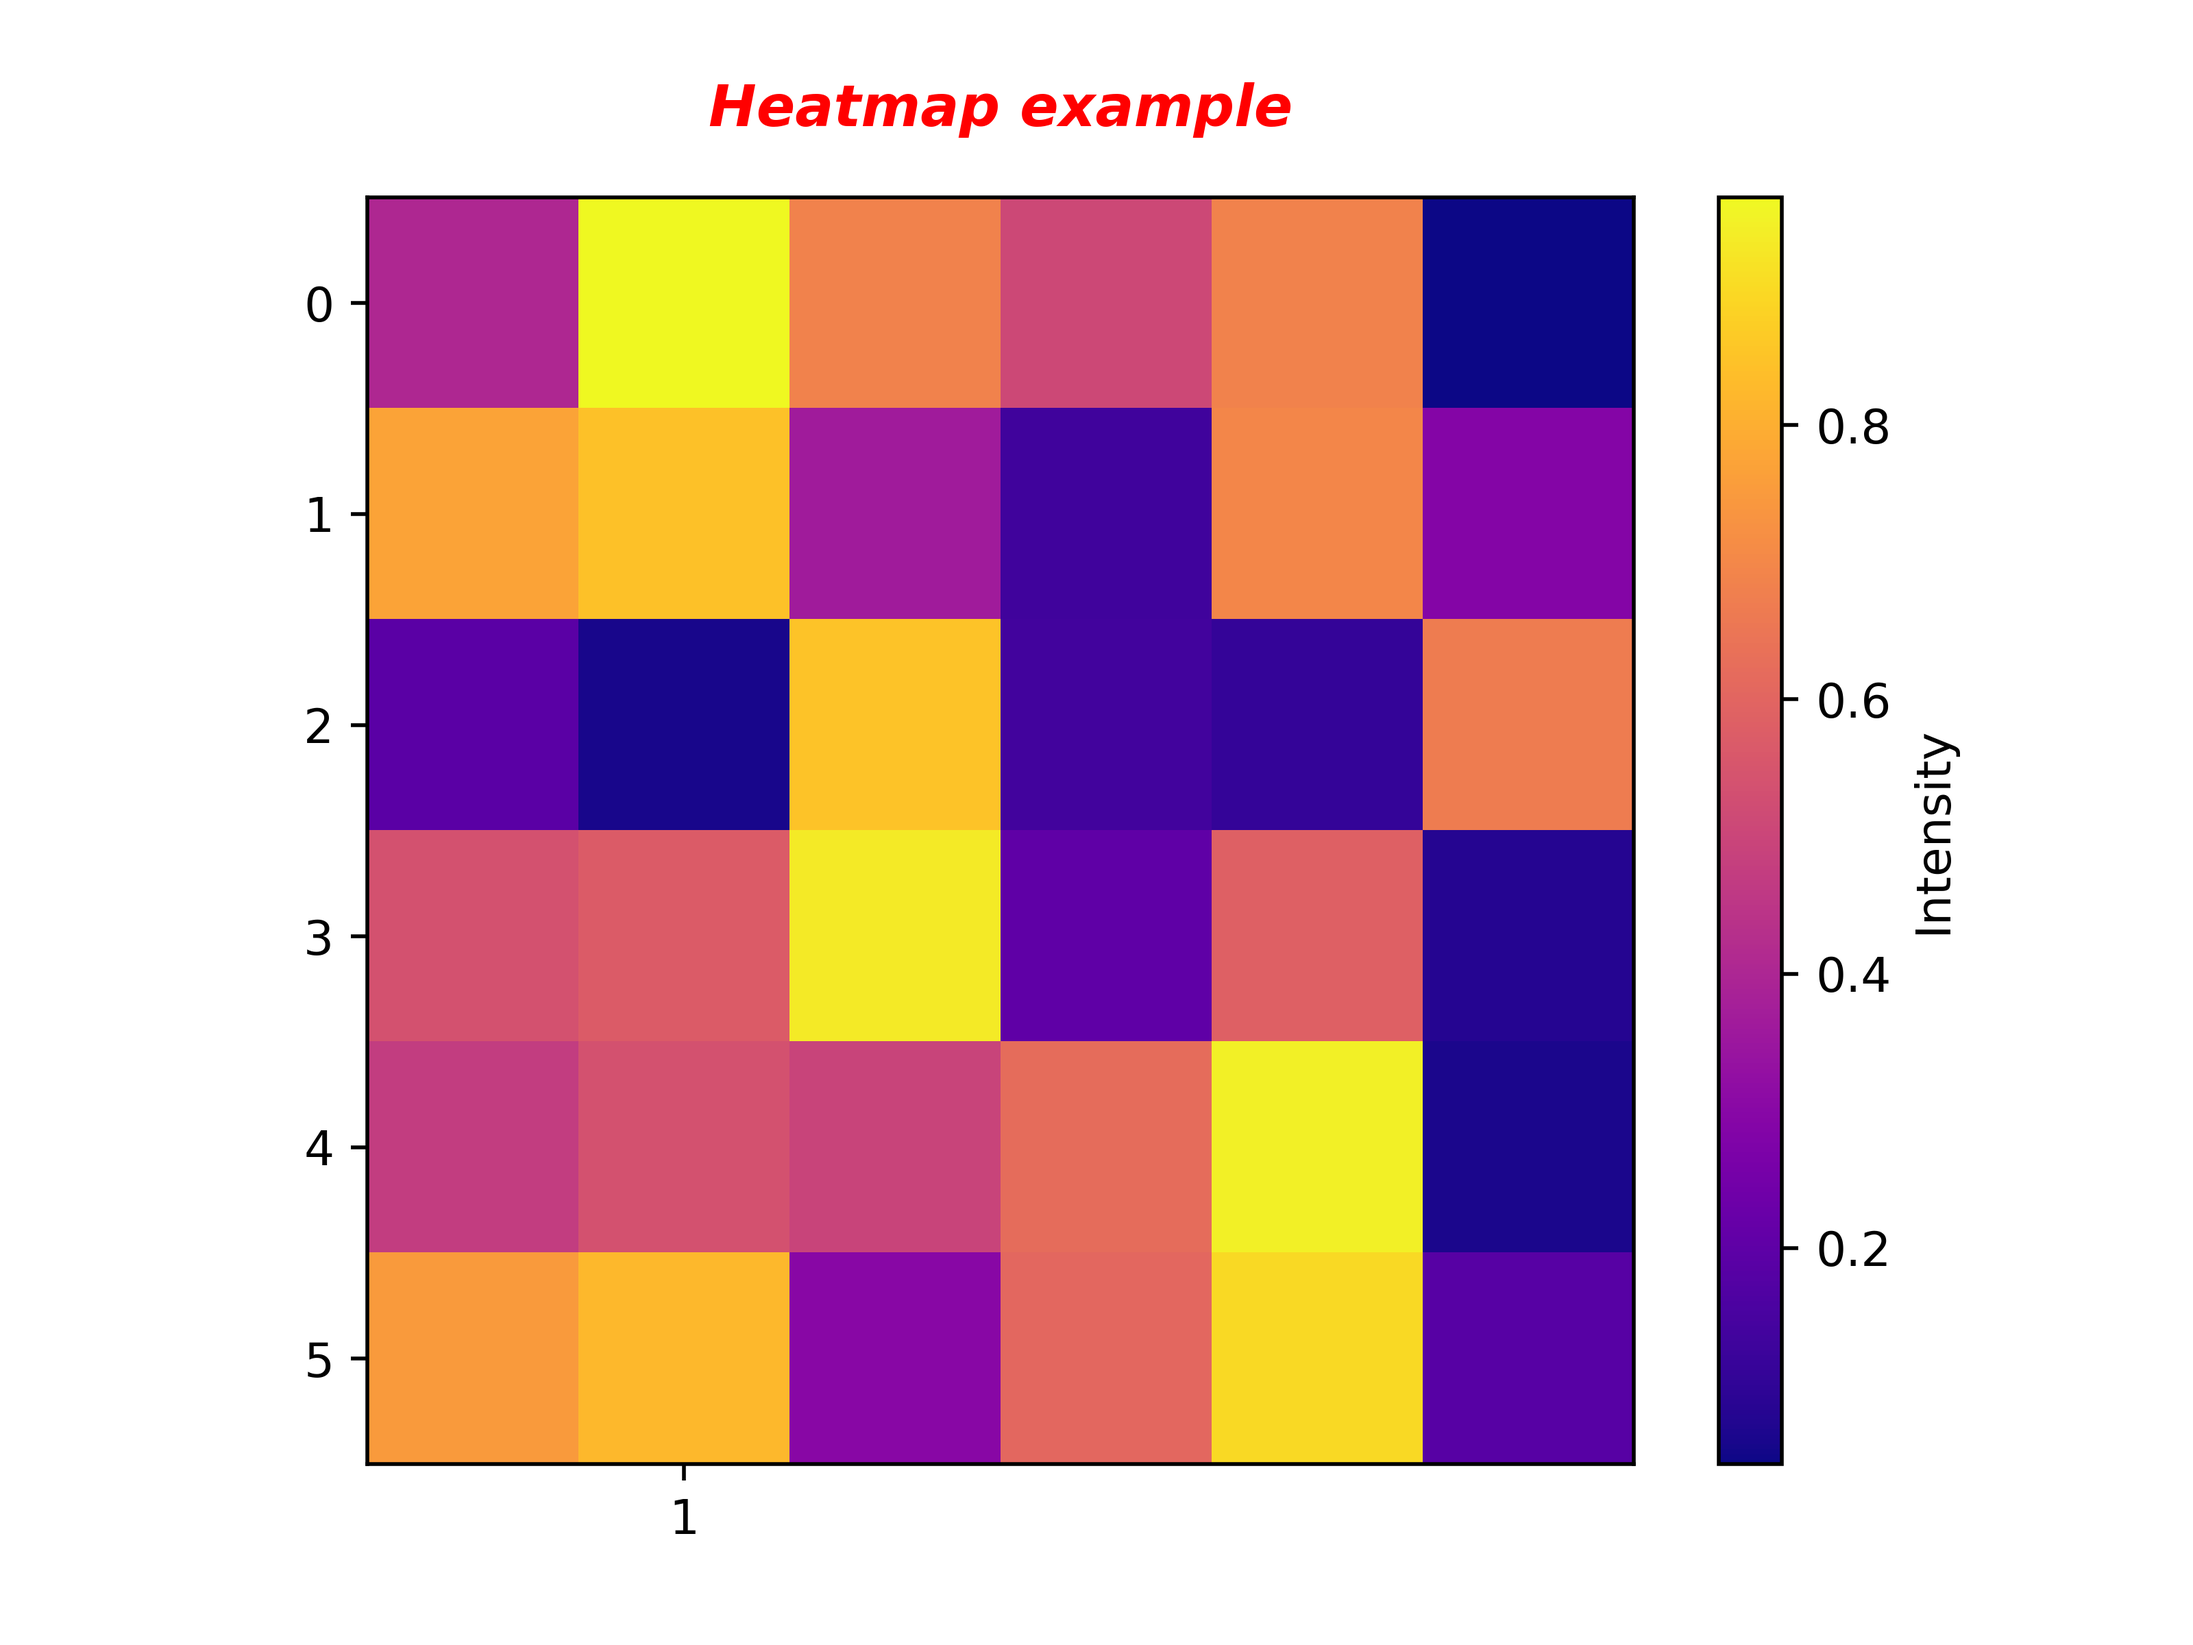
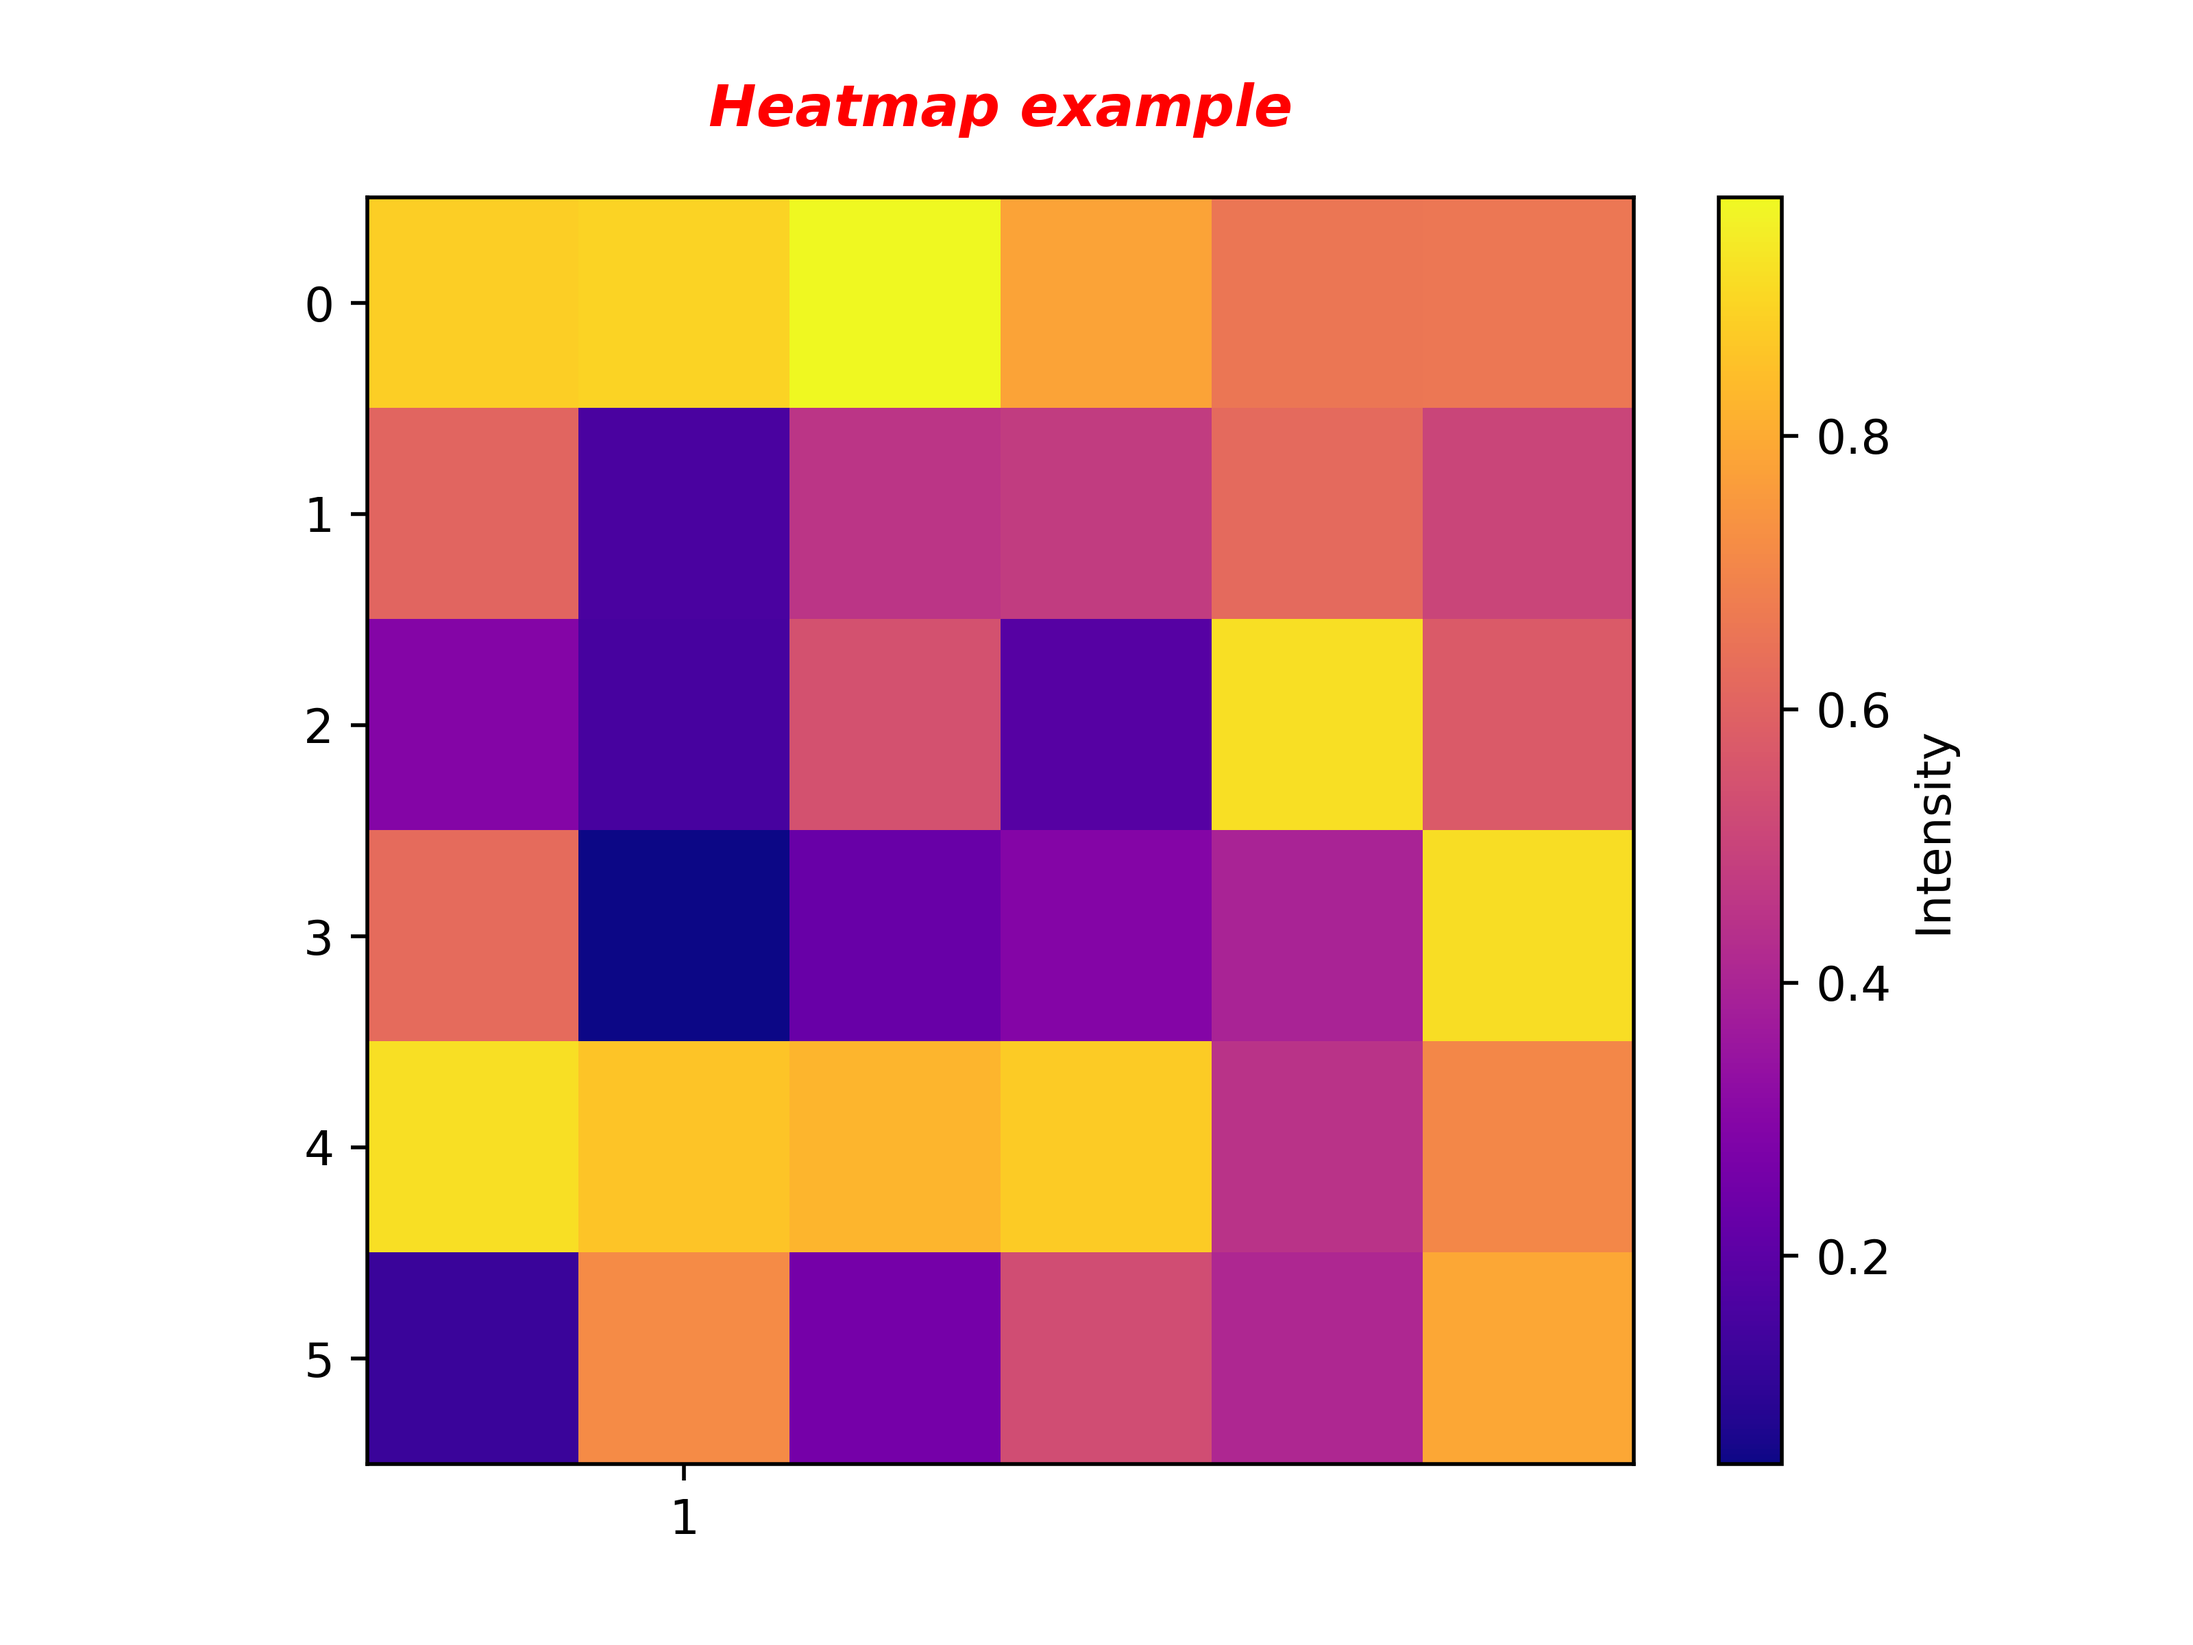
Adding about heatmap and contour maps

diff --git a/MATPLOTLIB/codes.py b/MATPLOTLIB/codes.py
@@ -375,6 +375,7 @@ plt.savefig("3D map.png",dpi=200)
 plt.show()
 '''
 #boxplot
+'''
 import matplotlib.pyplot as plt
 import numpy as np
 
@@ -383,9 +384,11 @@ data = np.append(np.random.normal(50, 10, 100), [10, 120])
 
 plt.boxplot(data)
 plt.title("Boxplot with Outliers")
+'''
 #plt.show()
 #Heatmap
 #Heatmaps for showing matrix-like data(correlations,confusions matrices,etc.)
+'''
 import matplotlib.pyplot as plt
 data=np.random.rand(6,6)
 plt.imshow(data,cmap="plasma",interpolation="nearest")
@@ -393,6 +396,35 @@ plt.colorbar(label="Intensity")
 plt.title("Heatmap example",style="italic",fontweight="bold",color="red",pad=15)
 #pad=15 is the distance between title and plot 
 plt.savefig("Heatmap example.png",dpi=500)
-plt.show()
+plt.show()'''
+import matplotlib.pyplot as plt
+import numpy as np
 
+x = np.linspace(0, 10, 100)
+#linspace for generating the 100 evenly spaced numbers between range 0-10
+y = np.sin(x)
+plt.scatter(x, y, c=y, cmap="Set2", s=80, edgecolor="black")
+#s=80 in .scatter means the size of the marker s=80 is the size of dots ie 80 is medium
+#c=y means the sin(x) values determine the color
+#combined with cmap="Set2",points with higher values are one color,lower values another
+plt.colorbar(label="sin(x) value")
+plt.title("Scatter with Colormap")
+plt.show()
+'''
+CONTOUR PLOTS
+A contour plot is used to represent 3D data in 2D form by drawing lines(contours) that
+connect points of equal value.Think of it like a map of elevation'''
+
+import matplotlib.pyplot as plt
+import numpy as np
+
+x = np.linspace(-5, 5, 100)
+y = np.linspace(-5, 5, 100)
+X, Y = np.meshgrid(x, y)
+Z = np.sin(np.sqrt(X**2 + Y**2))
+
+plt.contourf(X, Y, Z, cmap="plasma")   # filled contours
+plt.colorbar(label="Intensity")
+plt.title("Contour Plot Example")
+plt.show()
 
